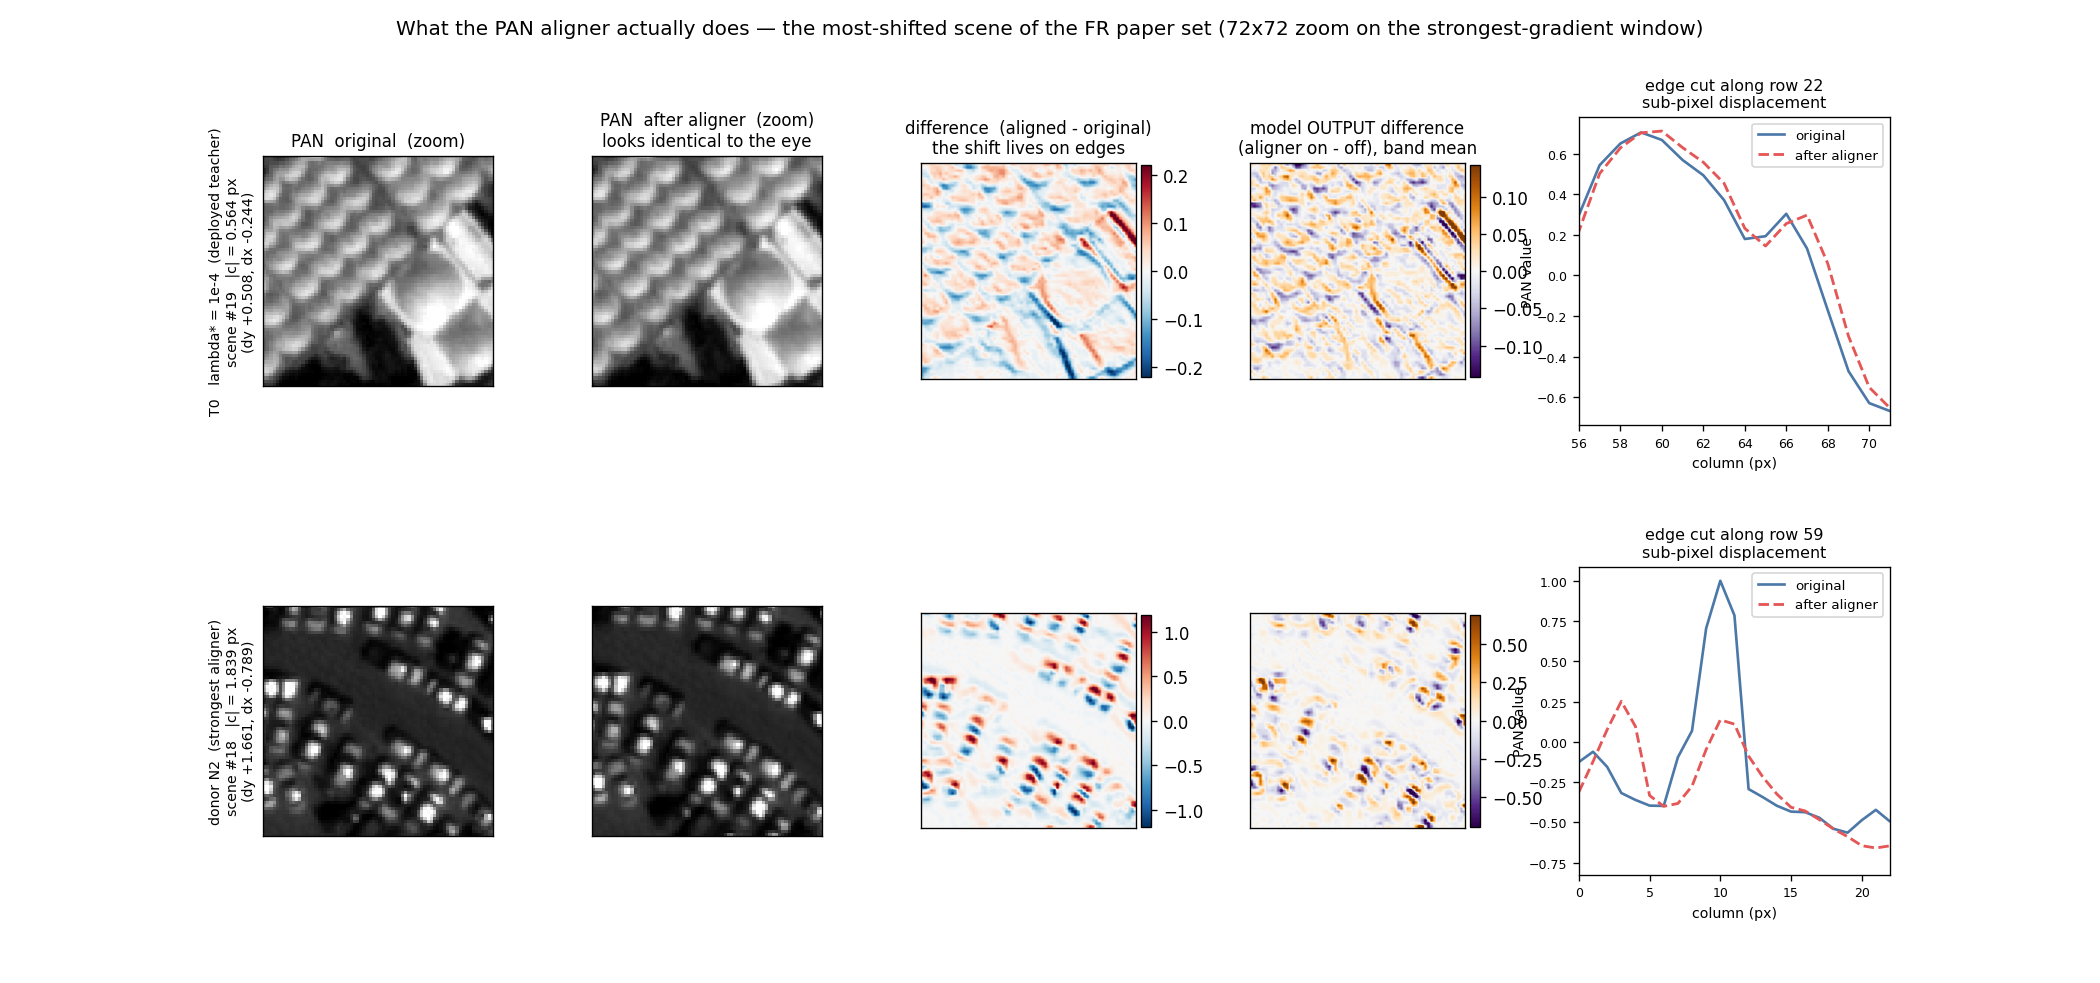
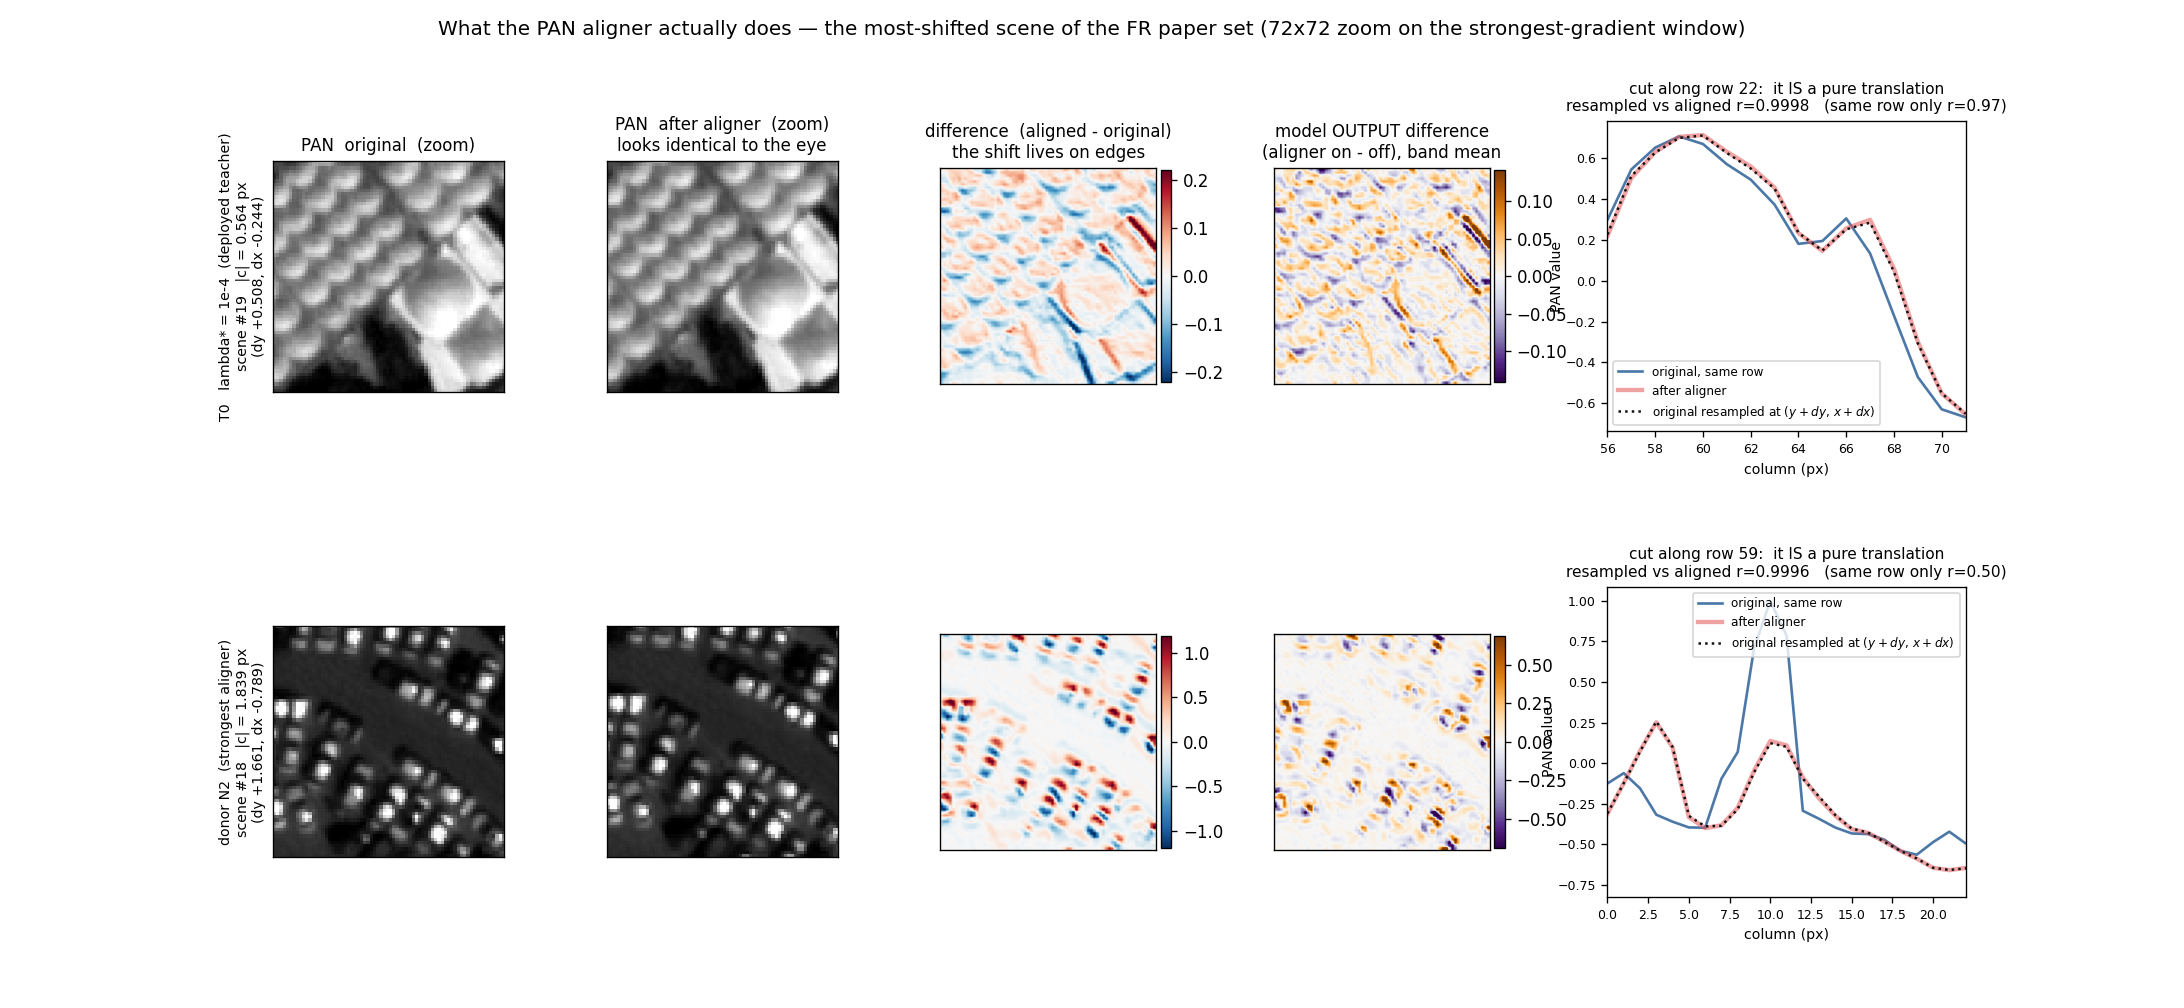
§15 정정 — donor 단면의 '값이 주저앉는다' 는 잘못된 서술, 순수 평행이동이다
지적 반영. donor 이동 (dy +1.661, dx -0.789) 은 세로 성분이 크고 규약은
aligned[y,x]=original[y+dy,x+dx] 이므로 aligned 59 행은 원본 60.66 행을 보여준다 —
가로 절단면으로는 세로 이동을 볼 수 없고 같은 행끼리는 다른 내용을 비교하게 된다.

검증: 원본을 (y+dy, x+dx) 에서 재샘플한 곡선이 aligned 와 r=0.9996(donor)/0.9998(T0),
최대 절대차 0.033 으로 일치 -> 진폭 손실 없는 순수 평행이동. 같은 행 상관은 donor 0.50,
T0 0.97 로 이동량에 따라 떨어질 뿐이다. aligned 59 행 최댓값 0.966 (원본 1.000) 이고,
0.13 은 원본이 봉우리였던 그 '열' 의 값이지 행 최댓값이 아니었다.

그림에 재샘플 곡선(검은 점선)을 세 번째 계열로 추가했다.

diff --git a/tools/aligner_shift_example.py b/tools/aligner_shift_example.py
@@ -15,6 +15,7 @@ import sys
 
 import numpy as np
 import torch
+from scipy.ndimage import map_coordinates
 import yaml
 import matplotlib
 matplotlib.use("Agg")
@@ -59,8 +60,8 @@ def main():
     Feeder = import_class(cfg["feeder"])
     ds = Feeder(**cfg["test_full_feeder_args"])
 
-    fig = plt.figure(figsize=(17.5, 8.2))
-    gs = GridSpec(2, 5, hspace=.46, wspace=.40, width_ratios=[1, 1, 1, 1, 1.35])
+    fig = plt.figure(figsize=(18.2, 8.4))
+    gs = GridSpec(2, 5, hspace=.50, wspace=.40, width_ratios=[1, 1, 1, 1, 1.55])
 
     for r, (fam, seed, tag, lab) in enumerate(CASES):
         L = CM.load_model(fam, seed, tag)
@@ -121,18 +122,27 @@ def main():
         seg0 = p0[sl]; seg1 = p1[sl]
         row = int(np.abs(np.diff(seg0, axis=1)).sum(1).argmax())
         xs = np.arange(Z)
-        a.plot(xs, seg0[row], "-", lw=1.6, color="#4C78A8", label="original")
-        a.plot(xs, seg1[row], "--", lw=1.7, color="#E45756", label="after aligner")
+        a.plot(xs, seg0[row], "-", lw=1.6, color="#4C78A8", label="original, same row")
+        a.plot(xs, seg1[row], "-", lw=2.6, color="#E45756", alpha=.55, label="after aligner")
+        # 원본을 (y+dy, x+dx) 에서 재샘플 -> 이동이 순수 평행이동이면 위 곡선과 겹친다
+        rs = map_coordinates(p0, [np.full(Z, i0 + row + c[0]), j0 + xs + c[1]],
+                             order=3, mode="nearest")
+        a.plot(xs, rs, ":", lw=1.5, color="#111",
+               label=r"original resampled at $(y+dy,\,x+dx)$")
+        rho = float(np.corrcoef(rs, seg1[row])[0, 1])
+        rho_same = float(np.corrcoef(seg0[row], seg1[row])[0, 1])
         j = int(np.abs(np.diff(seg0[row])).argmax())
         lo_, hi_ = max(0, j - 11), min(Z - 1, j + 11)
         if hi_ - lo_ < 12:
             lo_, hi_ = max(0, min(lo_, Z - 23)), min(Z - 1, max(hi_, 22))
         a.set_xlim(lo_, hi_)
-        a.legend(fontsize=8, loc="best")
+        a.legend(fontsize=7.2, loc="best")
         a.set_xlabel("column (px)", fontsize=8.5)
         a.set_ylabel("PAN value", fontsize=8.5, labelpad=1)
         a.tick_params(labelsize=7.5)
-        a.set_title(f"edge cut along row {row}\nsub-pixel displacement", fontsize=9.5, pad=6)
+        a.set_title(f"cut along row {row}:  it IS a pure translation\n"
+                    f"resampled vs aligned r={rho:.4f}   (same row only r={rho_same:.2f})",
+                    fontsize=9.2, pad=6)
 
         print(f"{lab}: scene {k}  |c|={np.linalg.norm(c):.3f}  "
               f"PAN diff RMS={np.sqrt((d**2).mean()):.4f}  "
